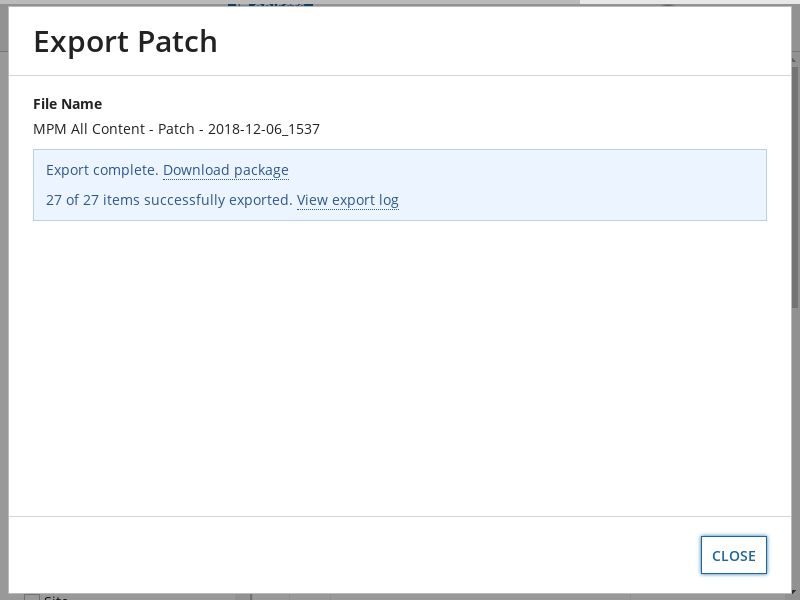
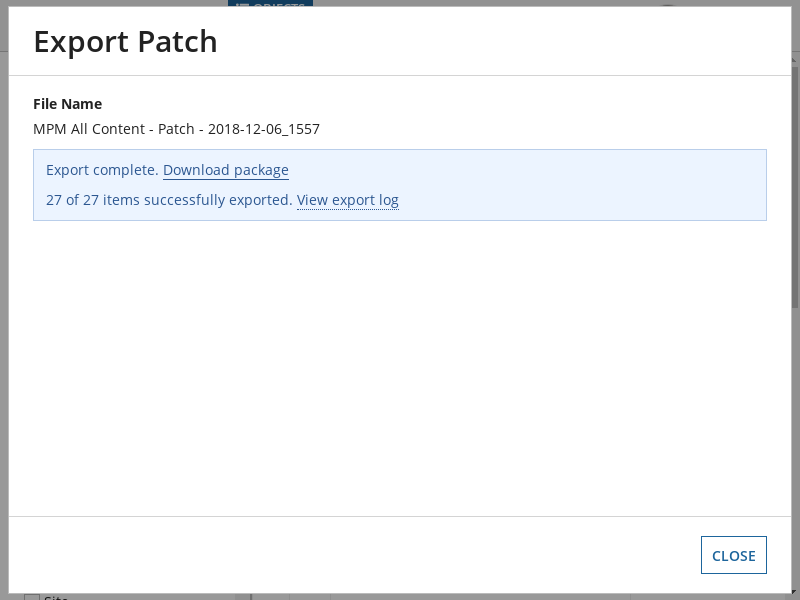
Added Screenshot

Changed region(s): [[0.0, 0.0, 1.0, 0.03], [0.875, 0.93, 0.9688, 0.96], [0.875, 0.87, 0.9375, 0.9]]

diff --git a/addToPatchSelenium.py b/addToPatchSelenium.py
@@ -52,6 +52,7 @@ def waitForLoadXPATHHidden(path, x, driver):
 def run(items):
   options = Options()
   options.add_argument('--headless')
+  options.add_argument('--disable-popup-blocking')
   options.add_argument('--disable-gpu')
   driver = webdriver.Chrome("/home/bdumont/just-in-case-showcase/chromedriver", chrome_options=options)
   driver.get('https://mcriss-cdsdev.appiancloud.com/suite/design/lQBY7b8XyEG3sHPiDxlu8ZrV8LENAU_SQ5oJCUwg_freLRs2IulV4fLo--rXPlSQnPvVn5G5ay5rLhFVaH_juNa3rlpvXP4eG-1dzZZJpGoHs2L5LQ')
@@ -93,9 +94,10 @@ def run(items):
   export = driver.find_element_by_xpath('/html/body/div[1]/div[3]/div/div/div[3]/div/div/div[2]/div/div/button')
   export.click()
   waitForLoadXPATH('//*[contains(text(), "Download package")]', driver)
-  driver.save_screenshot('screenie.png')
   export = driver.find_element_by_xpath('/html/body/div[1]/div[3]/div/div/div[2]/div/div[2]/div/div/div/div/div/div/div[1]/div[2]/div/p/a')
   export.click()
+  print("Clicked Download")
+  driver.save_screenshot('screenie.png')  
   time.sleep(15)
 
 
